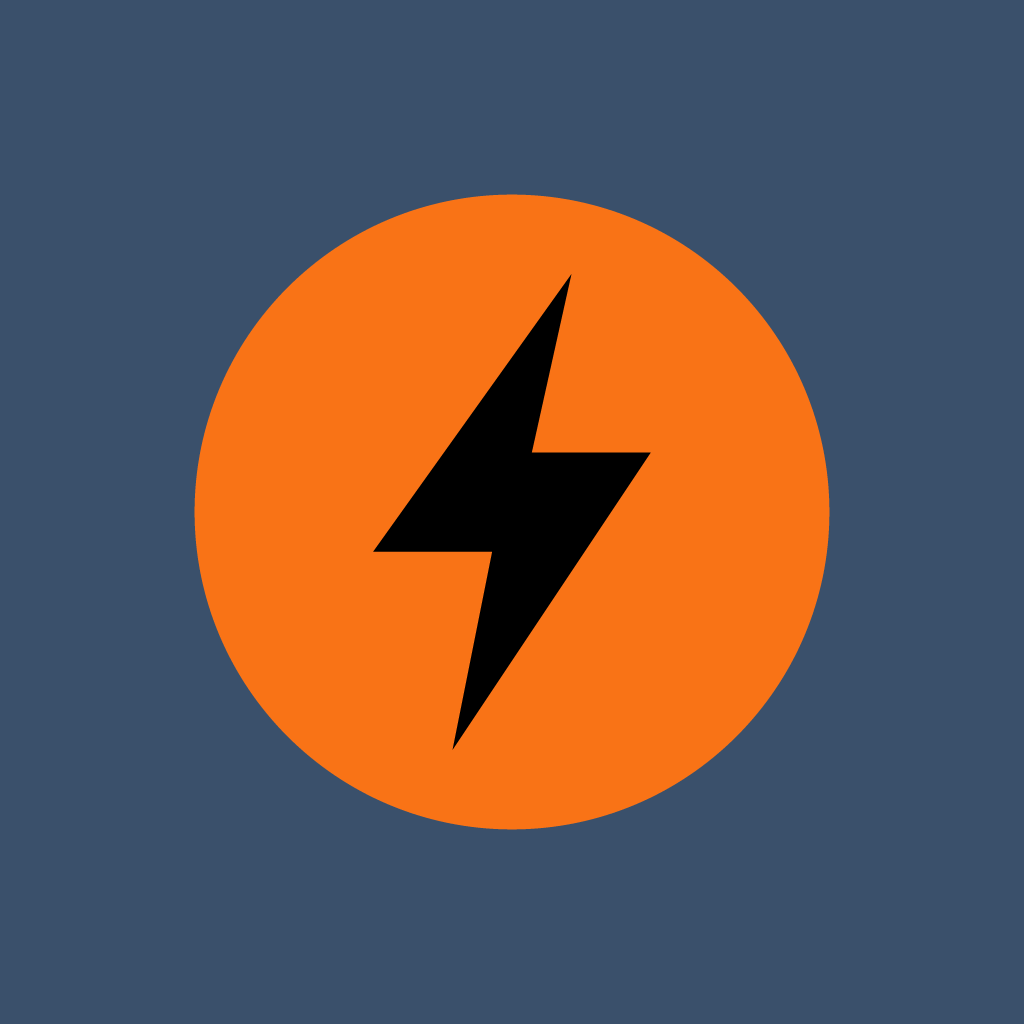
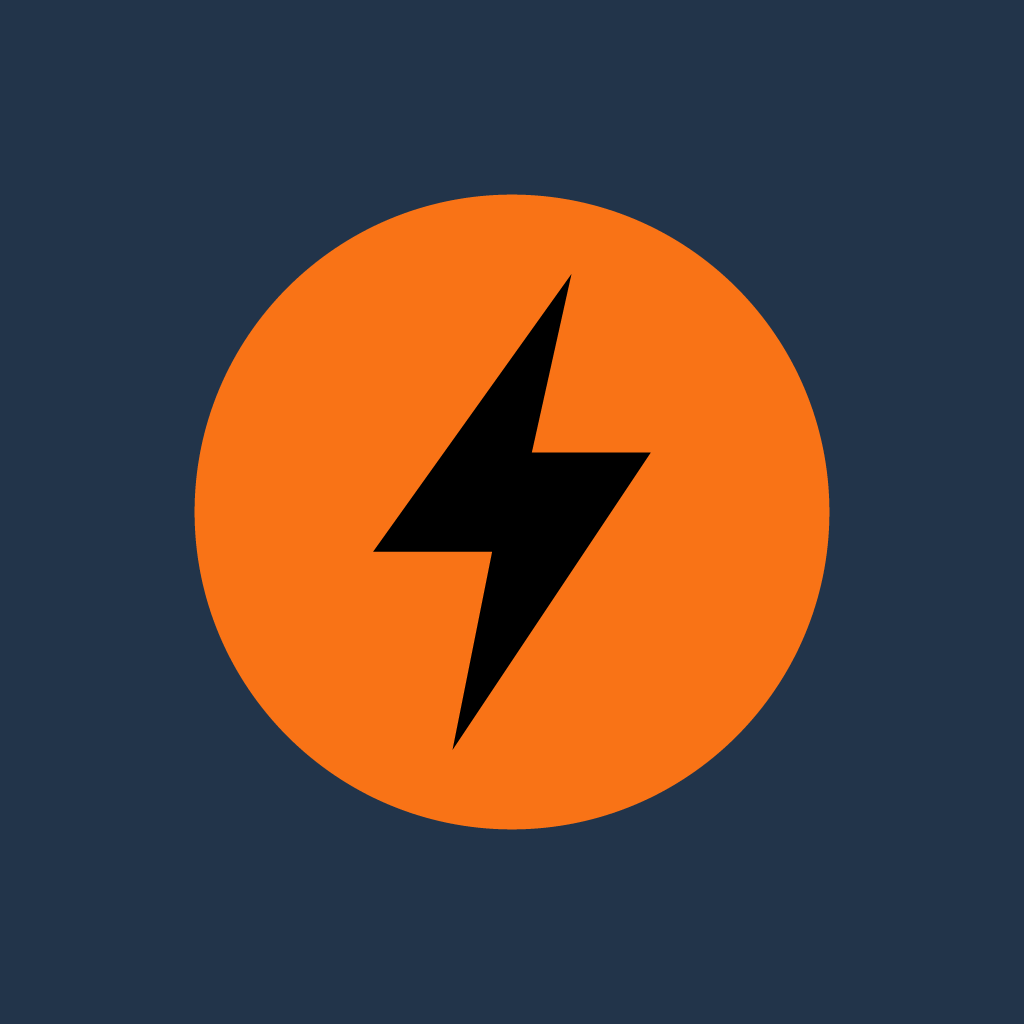
style: couleurs de la maquette et en-tête centré
Fond bleu nuit #22344A, cartes #3A506B plus claires que le fond, ombres
renforcées pour rester visibles ; démarrage, icône adaptative et fond
racine au nouveau bleu. En-tête du départ centré (logo, nom, slogan),
« Mon journal » en bouton icône, titres de section en Barlow Condensed.

diff --git a/mobile/app/index.tsx b/mobile/app/index.tsx
@@ -1,6 +1,6 @@
 import { router, useFocusEffect } from 'expo-router';
 import { useCallback, useMemo, useRef, useState } from 'react';
-import { AccessibilityInfo, Platform, Pressable, ScrollView, StyleSheet, Text, View } from 'react-native';
+import { AccessibilityInfo, Platform, Pressable, ScrollView, StyleSheet, Text, View, useWindowDimensions } from 'react-native';
 import { SafeAreaView } from 'react-native-safe-area-context';
 
 import { contexteDisponible } from '../src/abonnement/acces';
@@ -20,15 +20,18 @@ import { ICONE_CONTEXTE, ICONE_RESSENTI, Icone } from '../src/ui/icones';
 import { LIBELLES_RESSENTI } from '../src/ui/libelles';
 import { Marque } from '../src/ui/Logo';
 import { CIBLE_MIN, COULEURS, ESPACE, TYPO } from '../src/ui/theme';
-import { ondulation } from '../src/ui/toucher';
+import { enfoncement, ondulation } from '../src/ui/toucher';
 
 const MESSAGE_PREMIUM = 'Bientôt avec Premium';
+// En dessous de cette hauteur (dp), l'en-tête rétrécit pour que tout tienne sans défilement.
+const HAUTEUR_COMPACTE = 780;
 
 // Zéro configuration : tout est présélectionné, un seul tap suffit pour lancer la séance.
 export default function Depart() {
   const [choix, setChoix] = useState<Choix>(CHOIX_PAR_DEFAUT);
   const [derniersExercices, setDerniersExercices] = useState<string[]>([]);
   const [message, setMessage] = useState<string | null>(null);
+  const compacte = useWindowDimensions().height < HAUTEUR_COMPACTE;
 
   // Nombre de choix faits par l'utilisateur : une lecture démarrée avant ne doit pas écraser sa sélection.
   const choixUtilisateur = useRef(0);
@@ -109,22 +112,26 @@ export default function Depart() {
   return (
     <SafeAreaView style={styles.ecran}>
       <ScrollView contentContainerStyle={styles.contenu}>
-        <View style={styles.entete}>
-          <Marque />
+        <View style={[styles.entete, compacte && styles.enteteCompact]}>
+          <Marque compacte={compacte} />
+          <Text style={[styles.slogan, compacte && styles.sloganCompact]}>
+            Où que tu sois, 5 minutes pour te sentir mieux.
+          </Text>
+          {/* Hors du flux : le bloc logo, nom et slogan reste centré sur l'écran. */}
           <Pressable
             accessibilityRole="button"
             accessibilityLabel="Mon journal"
             onPress={ouvrirJournal}
             android_ripple={ondulation(COULEURS.texte)}
-            style={styles.cibleJournal}
+            style={({ pressed }) => [styles.boutonJournal, enfoncement(pressed)]}
           >
-            <Icone nom="journal" />
-            <Text style={styles.lienJournal}>Mon journal</Text>
+            <Icone nom="journal" taille={26} />
           </Pressable>
         </View>
-        <Text style={styles.slogan}>Où que tu sois, 5 minutes pour te sentir mieux.</Text>
 
-        <Text style={styles.section}>Où es-tu ?</Text>
+        <Text style={styles.section} accessibilityRole="header">
+          Où es-tu ?
+        </Text>
         <View style={styles.grille}>
           {contextes.map((contexte) => (
             <CarteOption
@@ -147,7 +154,9 @@ export default function Depart() {
           </View>
         )}
 
-        <Text style={styles.section}>Comment tu te sens ?</Text>
+        <Text style={styles.section} accessibilityRole="header">
+          Comment tu te sens ?
+        </Text>
         <View style={styles.grille}>
           {RESSENTIS.map((ressenti) => (
             <CarteOption
@@ -161,7 +170,9 @@ export default function Depart() {
           ))}
         </View>
 
-        <Text style={styles.section}>Combien de temps ?</Text>
+        <Text style={styles.section} accessibilityRole="header">
+          Combien de temps ?
+        </Text>
         <View style={styles.ligne}>
           {DUREES.map((duree) => (
             <CarteOption
@@ -183,14 +194,23 @@ export default function Depart() {
 
 const styles = StyleSheet.create({
   ecran: { flex: 1, backgroundColor: COULEURS.fond },
-  contenu: { padding: ESPACE, paddingBottom: ESPACE * 2, gap: 12 },
-  // Si la place manque (grande police), le lien passe sous la marque, toujours calé à droite.
-  entete: { flexDirection: 'row', flexWrap: 'wrap', alignItems: 'center', justifyContent: 'space-between', columnGap: 12 },
-  // Cible tactile d'au moins 48 dp, seule ou en rangée avec la marque.
-  cibleJournal: { minHeight: CIBLE_MIN, flexDirection: 'row', alignItems: 'center', gap: 8, paddingHorizontal: 8, marginLeft: 'auto' },
-  lienJournal: { ...TYPO.labelLarge, color: COULEURS.texte, textDecorationLine: 'underline' },
-  slogan: { ...TYPO.bodyLarge, color: COULEURS.texteDiscret, marginBottom: 8 },
-  section: { ...TYPO.titleLarge, color: COULEURS.texte, marginTop: 12 },
+  contenu: { padding: ESPACE, gap: 12 },
+  entete: { alignItems: 'center', gap: 4, marginBottom: 4 },
+  enteteCompact: { gap: 2, marginBottom: 0 },
+  boutonJournal: {
+    position: 'absolute',
+    top: -4,
+    right: -8,
+    width: CIBLE_MIN,
+    height: CIBLE_MIN,
+    borderRadius: CIBLE_MIN / 2,
+    alignItems: 'center',
+    justifyContent: 'center',
+    overflow: 'hidden',
+  },
+  slogan: { ...TYPO.bodyLarge, color: COULEURS.texteDiscret, textAlign: 'center' },
+  sloganCompact: TYPO.bodyMedium,
+  section: { ...TYPO.headlineSmall, color: COULEURS.texte, marginTop: 8 },
   grille: { flexDirection: 'row', flexWrap: 'wrap', gap: 10 },
   ligne: { flexDirection: 'row', gap: 10 },
   demiLargeur: { flexBasis: '47%', flexGrow: 1 },

diff --git a/mobile/src/ui/theme.ts b/mobile/src/ui/theme.ts
@@ -1,10 +1,13 @@
 import { Platform, type TextStyle, type ViewStyle } from 'react-native';
 
-// Palette de la fiche. Contrastes : texte clair sur bleu ≈ 7,3:1 ; texte noir sur orange ≈ 7,5:1 ;
-// jamais de blanc sur l'orange (≈ 2,8:1, illisible).
+// Palette de la fiche, répartie comme la maquette : fond bleu nuit profond, cartes en bleu #3A506B, plus
+// claires que le fond (comme l'élévation Material en thème sombre), orange pour l'action.
+// Contrastes : texte clair 11,2:1 sur le fond et 7,3:1 sur la carte ; texte discret 8,5:1 et 5,6:1 ;
+// texte noir sur orange 7,5:1 ; jamais de blanc sur l'orange (≈ 2,8:1, illisible). L'orange sur la carte
+// (2,95:1) ne porte jamais seul une information : une icône orange se pose sur une pastille.
 export const COULEURS = {
-  fond: '#3A506B',
-  carte: '#2D3748',
+  fond: '#22344A',
+  carte: '#3A506B',
   carteClaire: '#EDF2F7',
   orange: '#F97316',
   // Ombre de profondeur de l'orange (figurine) : jamais pour du texte.
@@ -40,6 +43,8 @@ export const TYPO = {
   displayLarge: { fontFamily: famille(POLICE_AFFICHAGE_EXTRA), fontSize: 57, lineHeight: 64 },
   displaySmall: { fontFamily: famille(POLICE_AFFICHAGE_EXTRA), fontSize: 36, lineHeight: 44 },
   headlineMedium: { fontFamily: famille(POLICE_AFFICHAGE_GRAS), fontSize: 28, lineHeight: 36 },
+  // Titres de section (« Où es-tu ? »…) : affichage, un cran sous les titres d'écran.
+  headlineSmall: { fontFamily: famille(POLICE_AFFICHAGE_GRAS), fontSize: 24, lineHeight: 32 },
   titleLarge: { fontSize: 22, lineHeight: 28, fontWeight: '700' },
   titleMedium: { fontSize: 18, lineHeight: 24, fontWeight: '700' },
   bodyLarge: { fontSize: 16, lineHeight: 24, fontWeight: '400' },
@@ -48,6 +53,7 @@ export const TYPO = {
 } as const satisfies Record<string, Role>;
 
 // Élévation Material : une ombre douce, décalée vers le bas et floutée, jamais un halo centré.
+// Sur le fond bleu nuit, une ombre noire légère disparaît : opacités plus fortes que les valeurs Material.
 // Android dessine son ombre système avec `elevation` ; web et iOS utilisent `boxShadow` (RN 0.88).
 // Les deux ensemble donneraient une double ombre sur Android, d'où le choix par plateforme.
 function elevation(niveau: 1 | 2): ViewStyle {
@@ -55,8 +61,8 @@ function elevation(niveau: 1 | 2): ViewStyle {
   return {
     boxShadow:
       niveau === 1
-        ? '0px 1px 2px rgba(0, 0, 0, 0.30), 0px 1px 3px 1px rgba(0, 0, 0, 0.15)'
-        : '0px 1px 2px rgba(0, 0, 0, 0.30), 0px 2px 6px 2px rgba(0, 0, 0, 0.15)',
+        ? '0px 1px 3px rgba(0, 0, 0, 0.40), 0px 2px 6px 1px rgba(0, 0, 0, 0.22)'
+        : '0px 2px 4px rgba(0, 0, 0, 0.40), 0px 6px 14px 3px rgba(0, 0, 0, 0.28)',
   };
 }
 

diff --git a/mobile/src/ui/theme.test.ts b/mobile/src/ui/theme.test.ts
@@ -1,10 +1,29 @@
 import { CIBLE_MIN, COULEURS, ELEVATION, TYPO } from './theme';
 
 describe('thème', () => {
-  it('garde la palette de la fiche et ajoute l’orange profond', () => {
-    expect(COULEURS.fond).toBe('#3A506B');
+  it('répartit la palette comme la maquette : fond bleu nuit, cartes plus claires que le fond', () => {
+    expect(COULEURS.fond).toBe('#22344A');
+    expect(COULEURS.carte).toBe('#3A506B');
     expect(COULEURS.orange).toBe('#F97316');
     expect(COULEURS.orangeProfond).toBe('#C2410C');
+  });
+
+  it('garde les contrastes AA du texte sur le fond et sur les cartes', () => {
+    const canal = (v: number) => (v <= 0.03928 ? v / 12.92 : ((v + 0.055) / 1.055) ** 2.4);
+    const luminance = (hex: string) => {
+      const [r, g, b] = [1, 3, 5].map((i) => canal(parseInt(hex.slice(i, i + 2), 16) / 255));
+      return 0.2126 * r + 0.7152 * g + 0.0722 * b;
+    };
+    const contraste = (a: string, b: string) => {
+      const [x, y] = [luminance(a), luminance(b)].sort((m, n) => n - m);
+      return (x + 0.05) / (y + 0.05);
+    };
+    for (const surface of [COULEURS.fond, COULEURS.carte]) {
+      expect(contraste(COULEURS.texte, surface)).toBeGreaterThanOrEqual(4.5);
+      expect(contraste(COULEURS.texteDiscret, surface)).toBeGreaterThanOrEqual(4.5);
+    }
+    expect(contraste(COULEURS.texteSurOrange, COULEURS.orange)).toBeGreaterThanOrEqual(4.5);
+    expect(contraste(COULEURS.texteSombre, COULEURS.carteClaire)).toBeGreaterThanOrEqual(4.5);
   });
 
   it('fixe la cible tactile minimale à 48', () => {
@@ -12,7 +31,7 @@ describe('thème', () => {
   });
 
   it('réserve Barlow Condensed à l’affichage : le reste reste en police système', () => {
-    for (const role of ['displayLarge', 'displaySmall', 'headlineMedium'] as const) {
+    for (const role of ['displayLarge', 'displaySmall', 'headlineMedium', 'headlineSmall'] as const) {
       expect(TYPO[role].fontFamily).toMatch(/^BarlowCondensed_/);
     }
     for (const role of ['titleLarge', 'titleMedium', 'bodyLarge', 'bodyMedium', 'labelLarge'] as const) {

diff --git a/mobile/__tests__/ecrans.test.tsx b/mobile/__tests__/ecrans.test.tsx
@@ -1,5 +1,5 @@
 /// <reference path="../node_modules/expo-router/build/ts-declarations/expect.d.ts" />
-import { fireEvent, waitFor } from '@testing-library/react-native';
+import { fireEvent, waitFor, within } from '@testing-library/react-native';
 import * as Haptics from 'expo-haptics';
 import { router } from 'expo-router';
 import { act, renderRouter, screen } from 'expo-router/testing-library';
@@ -72,6 +72,19 @@ describe('écran de départ', () => {
     await renderRouter(ROUTES, { initialUrl: '/' });
     expect(await screen.findByRole('header', { name: 'Flash Coach' })).toBeTruthy();
     expect(screen.getByText('Où que tu sois, 5 minutes pour te sentir mieux.')).toBeTruthy();
+  });
+
+  it('centre le logo et le nom, avec « Mon journal » en bouton icône et des titres de section', async () => {
+    await renderRouter(ROUTES, { initialUrl: '/' });
+    const marque = await screen.findByRole('header', { name: 'Flash Coach' });
+    expect(within(marque).getByText('Flash Coach', { includeHiddenElements: true })).toBeTruthy();
+    const journal = screen.getByRole('button', { name: 'Mon journal' });
+    expect(within(journal).getByTestId('icone-journal', { includeHiddenElements: true })).toBeTruthy();
+    expect(journal).toHaveStyle({ width: 48, height: 48, position: 'absolute' });
+    expect(screen.queryByText('Mon journal')).toBeNull();
+    for (const titre of ['Où es-tu ?', 'Comment tu te sens ?', 'Combien de temps ?']) {
+      expect(screen.getByRole('header', { name: titre })).toBeTruthy();
+    }
   });
 
   it('dessine une icône sur chaque carte de contexte et de ressenti, sans emoji', async () => {

diff --git a/mobile/src/ui/Logo.tsx b/mobile/src/ui/Logo.tsx
@@ -21,19 +21,25 @@ export function Logo({ taille }: LogoProps) {
   );
 }
 
-// Logo et nom côte à côte : le titre de l'écran de départ. Lu une seule fois, comme un titre.
-export function Marque() {
+interface MarqueProps {
+  // Écran court (≈ 740 dp) : logo et nom plus petits, pour que le départ tienne sans défilement.
+  compacte?: boolean;
+}
+
+// Logo en grand, le nom dessous : le titre de l'écran de départ. Lu une seule fois, comme un titre.
+export function Marque({ compacte = false }: MarqueProps) {
   return (
-    <View style={styles.marque} accessible accessibilityRole="header" accessibilityLabel="Flash Coach">
+    <View style={[styles.marque, compacte && styles.marqueCompacte]} accessible accessibilityRole="header" accessibilityLabel="Flash Coach">
       <View aria-hidden>
-        <Logo taille={40} />
+        <Logo taille={compacte ? 48 : 76} />
       </View>
-      <Text style={styles.nom}>Flash Coach</Text>
+      <Text style={[styles.nom, compacte ? TYPO.headlineMedium : TYPO.displaySmall]}>Flash Coach</Text>
     </View>
   );
 }
 
 const styles = StyleSheet.create({
-  marque: { flexDirection: 'row', alignItems: 'center', gap: 10 },
-  nom: { ...TYPO.headlineMedium, color: COULEURS.texte },
+  marque: { alignItems: 'center', gap: 6 },
+  marqueCompacte: { gap: 2 },
+  nom: { color: COULEURS.texte, textAlign: 'center' },
 });

diff --git a/mobile/src/ui/Logo.test.tsx b/mobile/src/ui/Logo.test.tsx
@@ -20,4 +20,17 @@ describe('Marque', () => {
     expect(screen.getByRole('header', { name: 'Flash Coach' })).toBeTruthy();
     expect(screen.queryByRole('image')).toBeNull();
   });
+
+  it('met le logo en grand au-dessus du nom, plus petit sur un écran court', async () => {
+    const largeurLogo = () =>
+      screen
+        .getAllByLabelText('Flash Coach', { includeHiddenElements: true })
+        .map((element) => element.props.style?.width)
+        .find((largeur) => largeur !== undefined);
+    await render(<Marque />);
+    expect(screen.getByText('Flash Coach', { includeHiddenElements: true })).toBeTruthy();
+    expect(largeurLogo()).toBe(76);
+    await screen.rerender(<Marque compacte />);
+    expect(largeurLogo()).toBe(48);
+  });
 });
